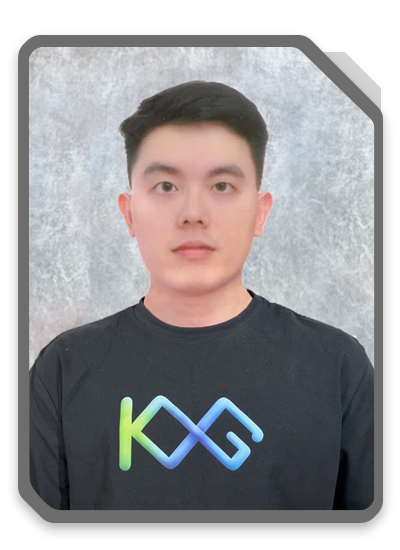
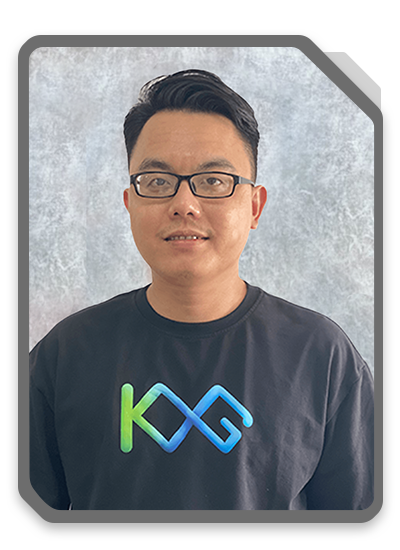
update tokenomics and team add Duong Vu

diff --git a/src/Content/TEAM/index.js b/src/Content/TEAM/index.js
@@ -1,6 +1,6 @@
 import urlImgPHU from '../../media/PHU.png'
 import urlImgHO from '../../media/HO-ANH.png'
-import urlImgVU from '../../media/DUONG.png'
+import urlImgDUONG from '../../media/DUONG.png'
 import urlImgTAN from '../../media/TAN.png'
 import urlImgAN from '../../media/AN.png'
 import urlImgTHIEN from '../../media/THIEN.png'
@@ -67,9 +67,9 @@ function Advisors(){
                             2+ years experience as Blockchain Developer</div>
                         </div>
                     </div>
-                    {/* <div className={style.AdvisorsWrapperTopItem} data-aos="zoom-in-up" data-aos-once="true" data-aos-delay="200">
+                    <div className={style.AdvisorsWrapperTopItem} data-aos="zoom-in-up" data-aos-once="true" data-aos-delay="200">
                         <div className={style.AdvisorsWrapperTopItemTop}>
-                            <img src={urlImgVU} alt=""/>
+                            <img src={urlImgDUONG} alt=""/>
                         </div>
                         <div className={style.AdvisorsWrapperTopItemBottom}>
                             <div className={style.name}>
@@ -77,10 +77,11 @@ function Advisors(){
                             </div>
                             <div className={style.position}>Product Lead/Game Designer</div>
                             <div class={style.background}>
-                            10+ years of experience in operating game products<br></br><br></br>
-                            4+ years of experience in designing game products at top Vietnam Game Publishers: VNG Corporation, Mobile Entertainment Corporation, Amanotes, Wolffun, etc.</div>
+                            Chief Technology Officer of BEUS
+                            7+ years of experience in software engineering in top Japan software companies: Rakuten Seimei Kikan, Sony Mobile Communications, Luvna.<br></br><br></br>
+                            5+ years of experience managing software product outsourcing globally, especially in Japan.</div>
                         </div>
-                    </div> */}
+                    </div>
                 </div>
                 <div className={style.AdvisorsWrapperBottom}>
                     <div className={style.AdvisorsWrapperBottomItem} data-aos="zoom-in-up" data-aos-once="true" data-aos-delay="400">

diff --git a/src/Content/tokenomics/index.js b/src/Content/tokenomics/index.js
@@ -20,9 +20,9 @@ function Tokenomics(){
                         <p>Total Supply: <span>200,000,000 $MTG</span> </p>
                         <ul className={style.tokenomicsWrapperContentList}>
                             <li><span>Private Round:</span><span>15%</span></li>
-                            <li><span>Public Round:</span><span>3%</span></li>
+                            <li><span>Public Round:</span><span>1%</span></li>
                             <li><span>Team:</span><span>15%</span></li>
-                            <li><span>Advisors & Partners:</span><span>5%</span></li>
+                            <li><span>Advisors & Partners:</span><span>7%</span></li>
                             <li><span>Liquidity:</span><span>10%</span></li>
                             <li><span>Marketing:</span><span>13%</span></li>
                             <li><span>Ecosystem:</span><span>39%</span></li>

diff --git a/src/Content/TEAM/TEAM.module.scss b/src/Content/TEAM/TEAM.module.scss
@@ -24,7 +24,7 @@
             justify-content: center;
             flex-wrap: wrap;
             &Item {
-                width: 30%;
+                width: 35%;
                 min-width: 570px;
                 text-align: center;
                 display: flex;
@@ -42,13 +42,13 @@
                         margin-bottom: 5px;
                     }
                     & .position{
-                        font-size: 16px;
+                        font-size: 18px;
                         color: var(--color_text_white);
                         font-style: italic;
                         margin-bottom: 25px;
                     }
                     & .background{
-                        font-size: 18px;
+                        font-size: 19px;
                         font-weight: 200;
                         line-height: 1.2;
                         color: var(--color_text_white);
